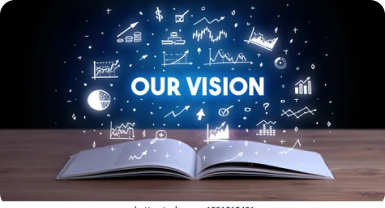
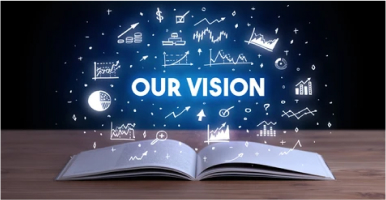
Image Background Changed

diff --git a/src/pages/AboutUs/components/Tab/Tab.css b/src/pages/AboutUs/components/Tab/Tab.css
@@ -13,8 +13,9 @@
 .title_tag h2{
     text-align: center;
     background: linear-gradient(30deg,#F27A0A, #041D60);
-    -webkit-background-clip: text;
+    -webkit-background-clip: text; 
     -webkit-text-fill-color: transparent;
+    
 }
 
 .tab_contents{
@@ -25,6 +26,8 @@
     width: 90%;
     height: 400px;
     object-fit: contain;
+    border-radius: 30px !important;
+    border: 1px transparent !important;
 }
 .tab_container{
     padding: 40px
@@ -53,14 +56,16 @@
         width: 90%;
         height: 200px;
         object-fit: contain;
+        border-radius: 30px;
+        border: 1px transparent;
     }
     
     .tab_contents h3{
-        text-align: start !important;
+        text-align: justify !important;
         line-height: 35px;
         font-weight: 400;
         font-size: 24px;
-        color:#041D60
+        color:#041D60;
     }
 
     .tab_container{

diff --git a/src/pages/AboutUs/components/Tab/Tab.jsx b/src/pages/AboutUs/components/Tab/Tab.jsx
@@ -57,13 +57,13 @@ export default function Tab({
                 </div>
               </div>
               <div className="col-md-5 order-1 order-md-2 d-flex justify-content-center align-items-center">
-                <img src={img} className="tab_img" alt=""  />
+                <img src={img} className="tab_img rounded" alt=""  />
               </div>
             </>
           ) : (
             <>
               <div className="col-md-5 order-1 order-md-1 d-flex justify-content-center align-items-center">
-                <img src={img} className="tab_img" alt="" />
+                <img src={img} className="tab_img rounded" alt="" />
               </div>
               <div className="col-md-7 order-2 order-md-2 d-flex justify-content-center align-items-center flex-column p-3">
                 <div className="content">
